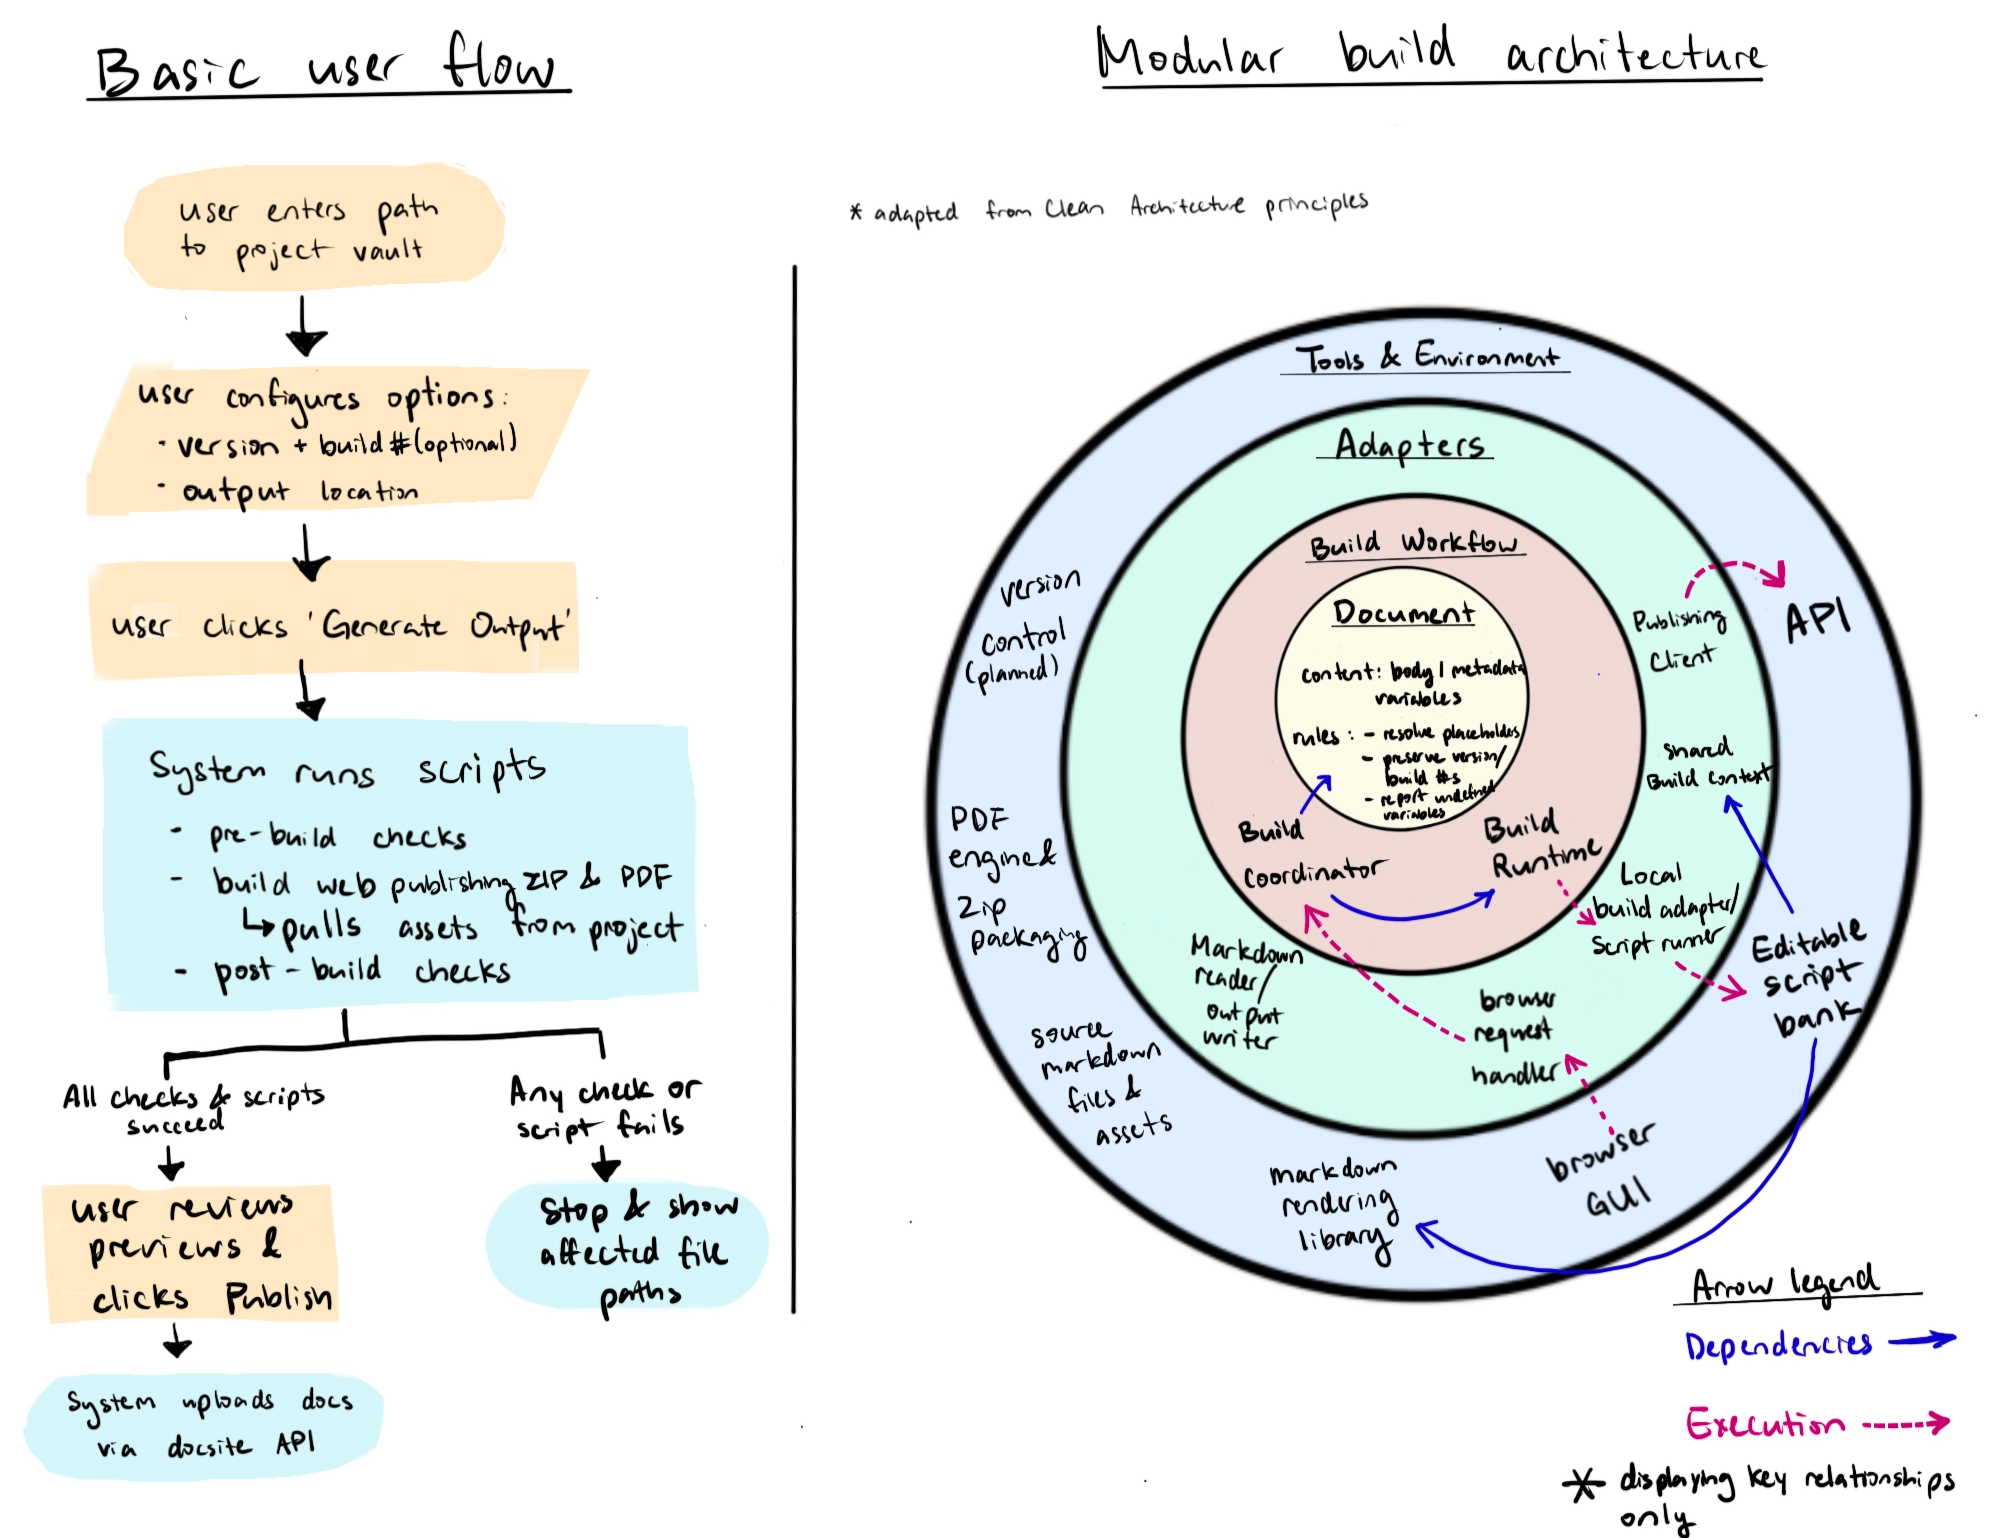
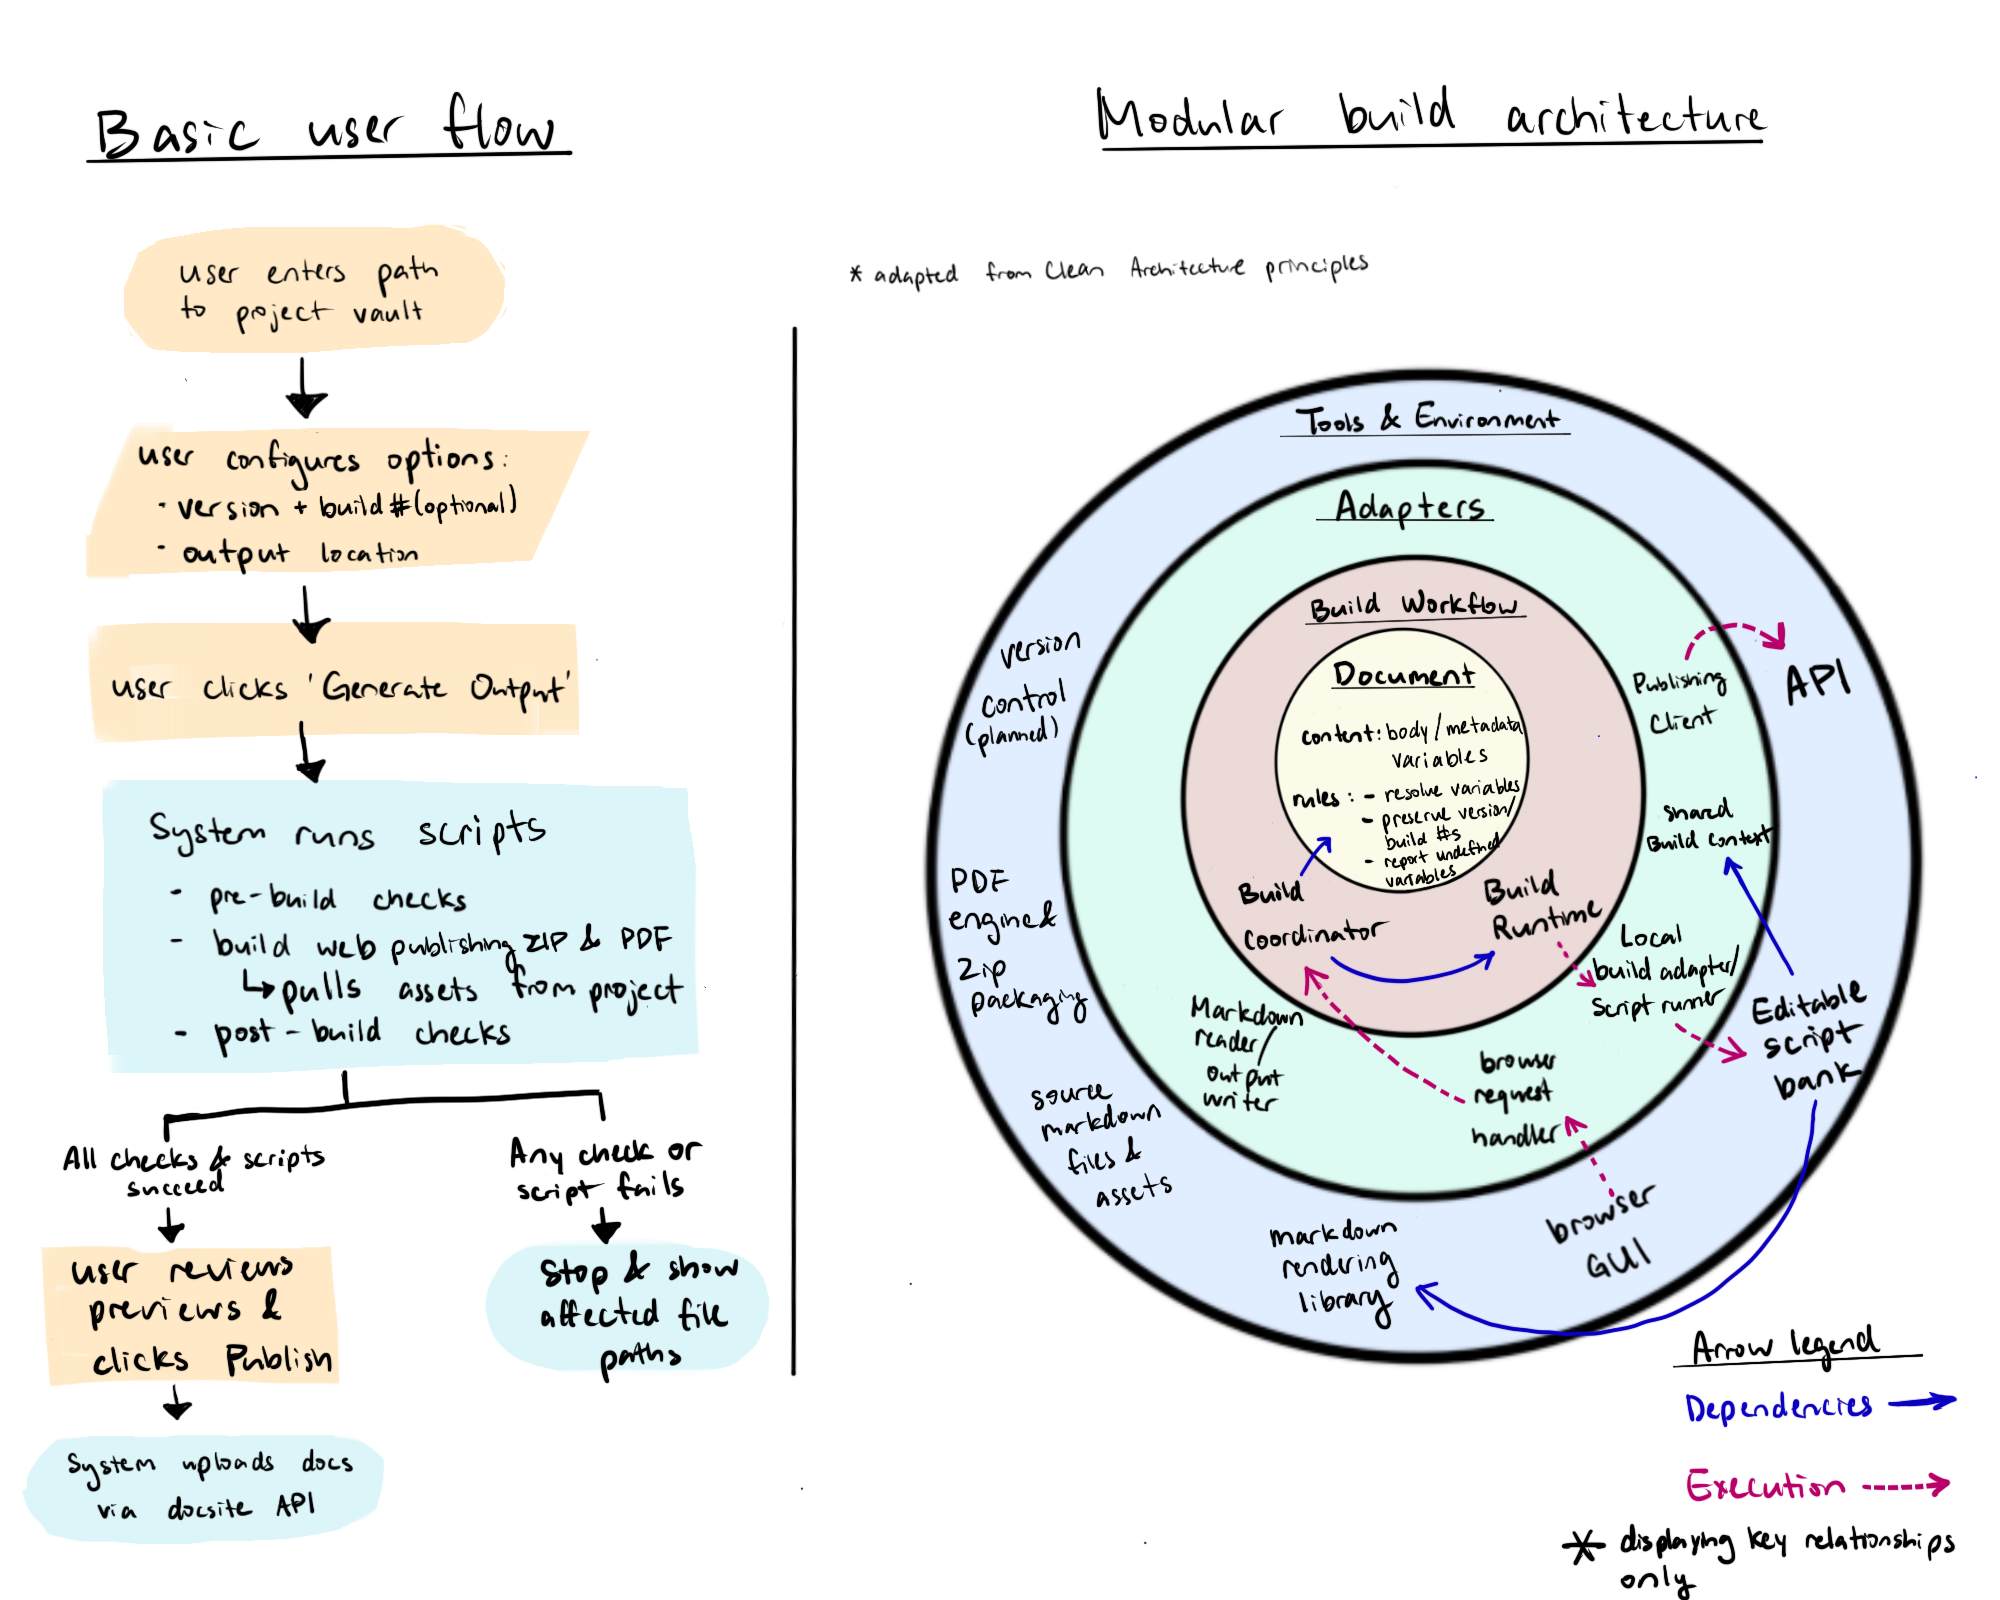
Refactor portfolio collections and update branding descriptions

Changed region(s): [[0.434, 0.1248, 0.992, 0.9987], [0.031, 0.0312, 0.403, 0.9675], [0.527, 0.0312, 0.899, 0.0936]]

diff --git a/README.md b/README.md
@@ -6,7 +6,7 @@ This repository contains the source for my portfolio of product documentation, c
 
 ## Explore my work
 
-- **[Writing Portfolio](https://hwen99.github.io/hwpfolio/writing.html)** — Concept guides, onboarding workflows, and feature documentation for networking and security products, alongside customer communications and product copy.
+- **[Technical Writing Portfolio](https://hwen99.github.io/hwpfolio/writing.html)** — Concept guides, onboarding workflows, and feature documentation for networking and security products, alongside customer communications and product copy.
 - **[Systems Portfolio](https://hwen99.github.io/hwpfolio/systems.html)** — Document Builder, a Flare-to-Markdown migration, and an exploratory evaluation of documentation for AI retrieval.
 
 The case studies explain the problem, my contribution, the decisions behind the work, and the results, with documentation samples and planning artifacts.

diff --git a/landing-page.md b/landing-page.md
@@ -1,16 +1,14 @@
 # Hannah Wen
 
-**Content engineer and technical writer**
+**Technical writer specializing in documentation systems**
 
-I make complex information easier to understand and manage.
+I build docs-as-code workflows, validation tools, and developer-focused documentation for complex software.
 
 # My work
 
 ---
 
-| [Writing](writing.md)                                                     | [Documentation Systems](systems.md)                   |
-| ------------------------------------------------------------------------- | ----------------------------------------------- |
-| Guides, customer communications, and product copy, optimized for clarity. | Workflows and tools that support documentation. |
+{{portfolioCollections}}
 
 # About me
 

diff --git a/systems.md b/systems.md
@@ -1,4 +1,4 @@
-# Documentation Systems
+# {{collectionTitle}}
 
 Alongside technical writing, I improve documentation workflows and build tools that make content easier to manage, clearer for readers, and better suited to AI systems.
 <!--

diff --git a/writing.md b/writing.md
@@ -1,4 +1,4 @@
-# Writing
+# {{collectionTitle}}
 
 I create technical content that helps readers understand complex systems and make informed decisions. 
 
